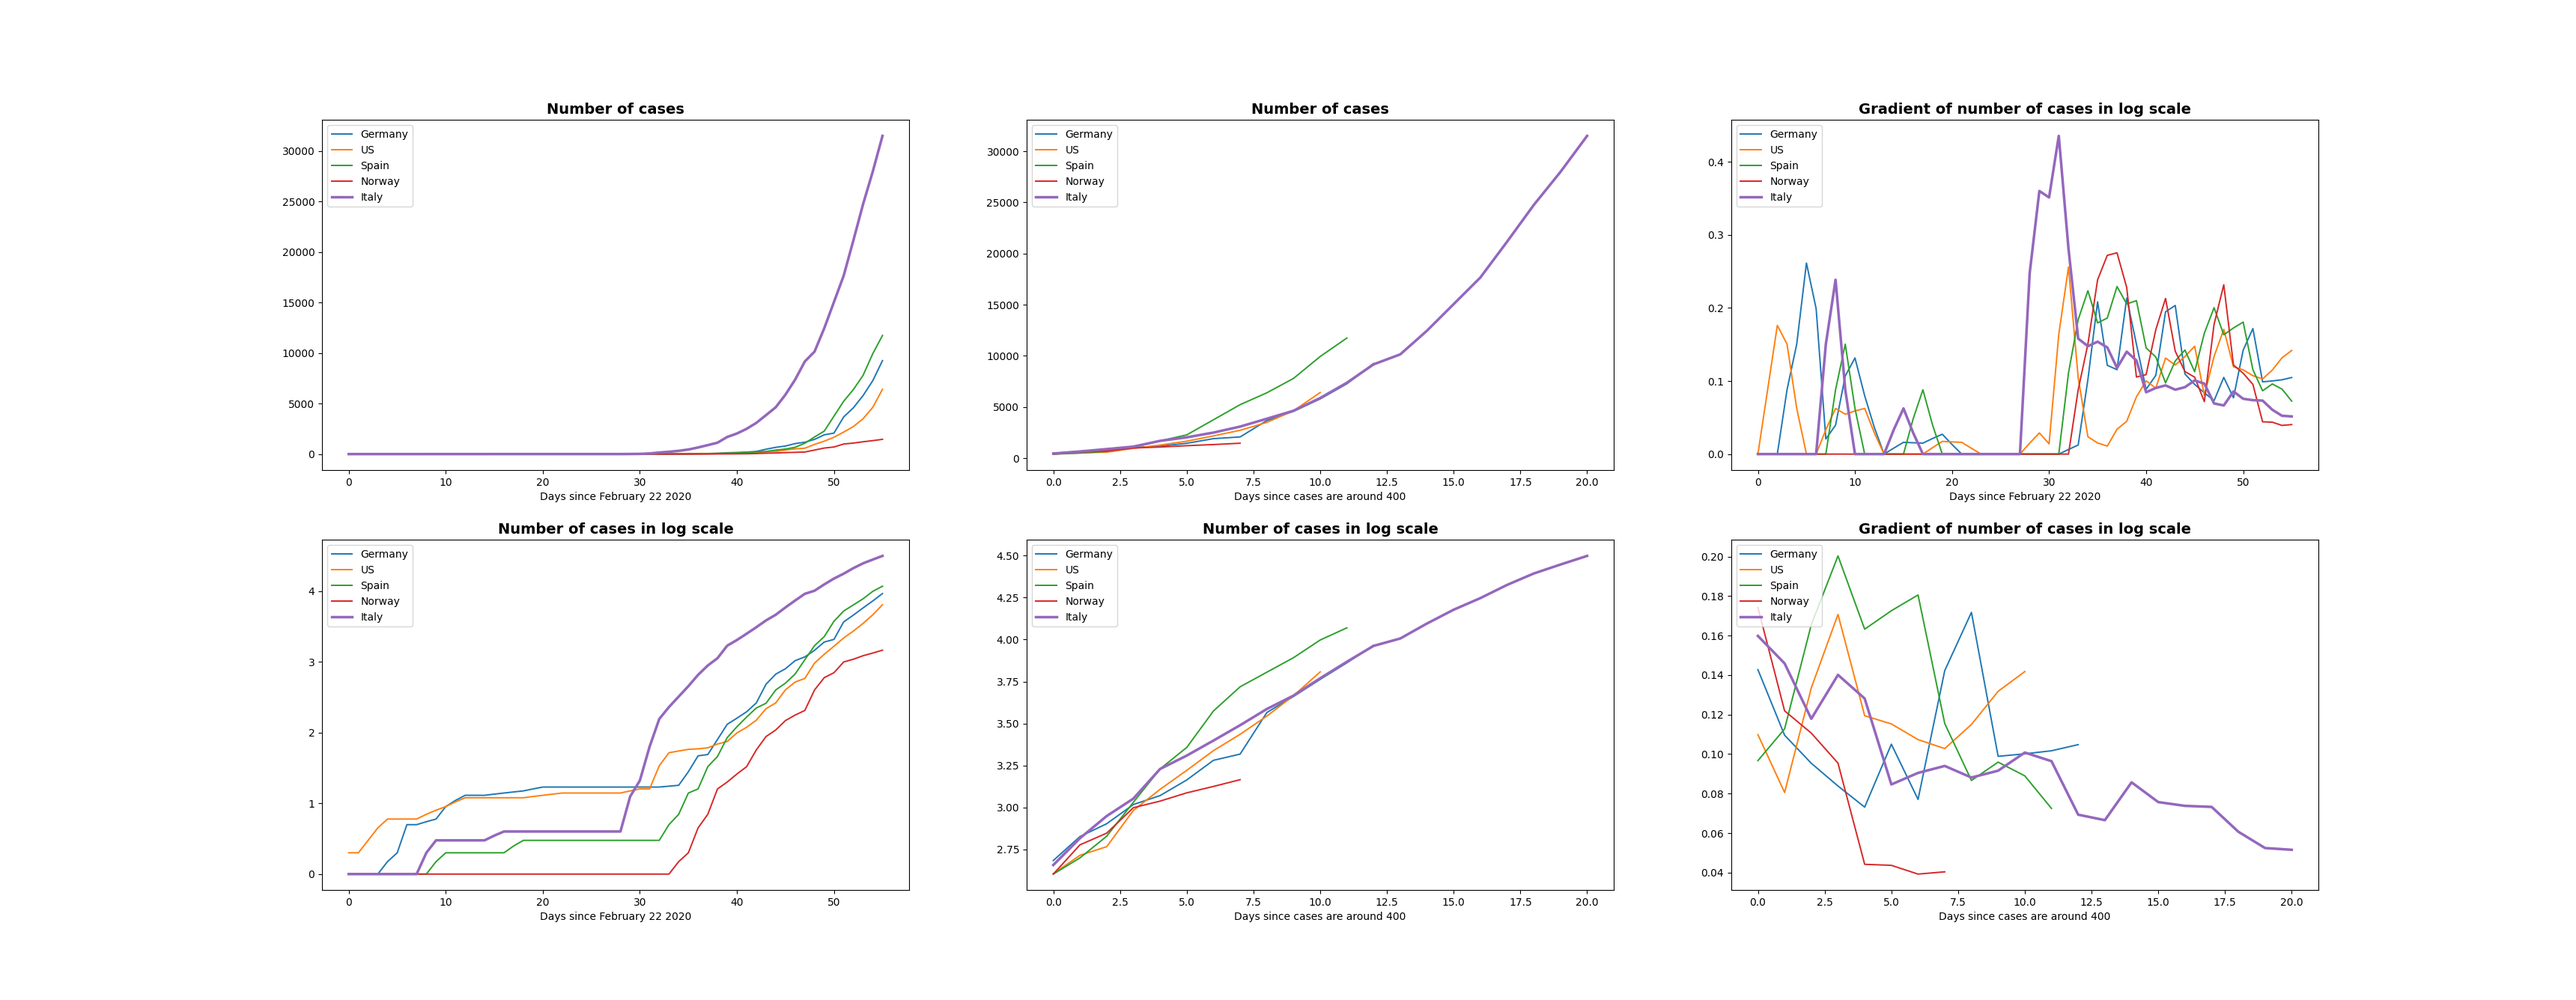
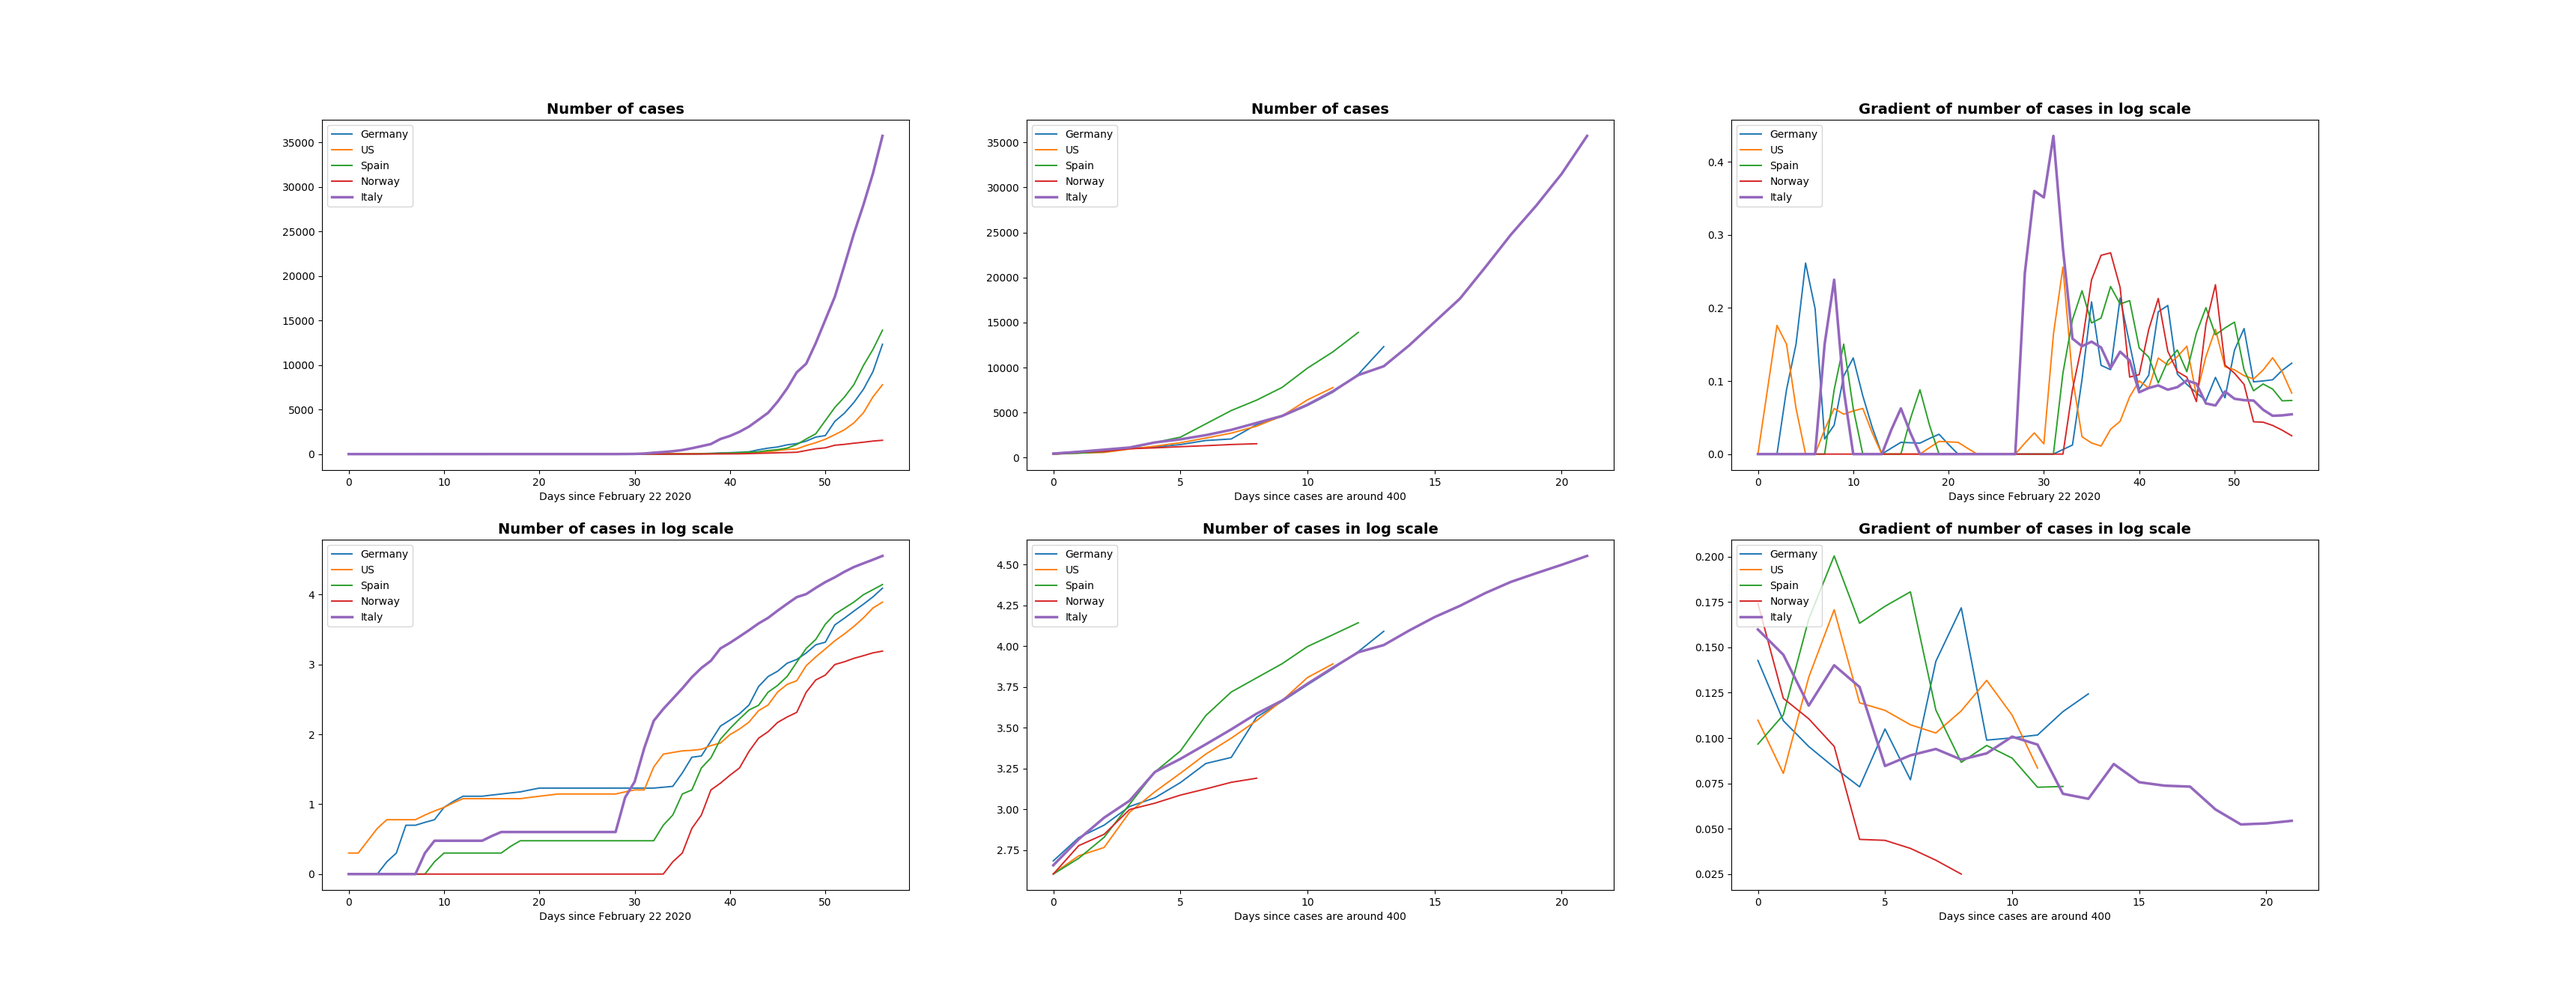
Added Italian Provinces

diff --git a/utils/plot.py b/utils/plot.py
@@ -1,7 +1,7 @@
 import matplotlib.pyplot as plt
 import numpy as np
 
-def plot_cases(confirmed, align_indexes):
+def plot_cases(confirmed, align_indexes, align_around):
     # Simple graph
     plt.subplot(2, 3, 1)
     for c, v in confirmed.items():
@@ -13,7 +13,7 @@ def plot_cases(confirmed, align_indexes):
 
     plt.legend(loc="upper left")
     plt.title("Number of cases", fontsize=14, fontweight='bold')
-    plt.xlabel("Days since February 22 2020")
+    plt.xlabel(f"Days since February 22 2020")
 
     # Simple aligned
     plt.subplot(2, 3, 2)
@@ -26,7 +26,7 @@ def plot_cases(confirmed, align_indexes):
         
     plt.legend(loc="upper left")
     plt.title("Number of cases", fontsize=14, fontweight='bold')
-    plt.xlabel("Days since cases are around 400")
+    plt.xlabel(f"Days since cases are around {align_around}")
 
     # Logarithm Gradient
     plt.subplot(2, 3, 3)
@@ -42,7 +42,7 @@ def plot_cases(confirmed, align_indexes):
 
     plt.legend(loc="upper left")
     plt.title("Gradient of number of cases in log scale", fontsize=14, fontweight='bold')
-    plt.xlabel("Days since February 22 2020")
+    plt.xlabel(f"Days since February 22 2020")
 
     # Logarithm
     plt.subplot(2, 3, 4)
@@ -56,7 +56,7 @@ def plot_cases(confirmed, align_indexes):
 
     plt.legend(loc="upper left")
     plt.title("Number of cases in log scale", fontsize=14, fontweight='bold')
-    plt.xlabel("Days since February 22 2020")
+    plt.xlabel(f"Days since February 22 2020")
 
     # Logarithm aligned
     plt.subplot(2, 3, 5)
@@ -70,7 +70,7 @@ def plot_cases(confirmed, align_indexes):
 
     plt.legend(loc="upper left")
     plt.title("Number of cases in log scale", fontsize=14, fontweight='bold')
-    plt.xlabel("Days since cases are around 400")
+    plt.xlabel(f"Days since cases are around {align_around}")
 
     # Logarithm aligned Gradient
     plt.subplot(2, 3, 6)
@@ -87,12 +87,12 @@ def plot_cases(confirmed, align_indexes):
 
     plt.legend(loc="upper left")
     plt.title("Gradient of number of cases in log scale", fontsize=14, fontweight='bold')
-    plt.xlabel("Days since cases are around 400")
+    plt.xlabel(f"Days since cases are around {align_around}")
 
     plt.show()
 
 
-def plot_growth(growths, align_indexes):
+def plot_growth(growths, align_indexes, align_around):
     growth_rate, growth_rate_moving_average, growth_rate_global_moving_average = growths
     # Raw Growth Rate
     plt.subplot(2, 3, 1)
@@ -105,7 +105,7 @@ def plot_growth(growths, align_indexes):
         
     plt.legend(loc="upper left")
     plt.title("Growth Rate Raw", fontsize=14, fontweight='bold')
-    plt.xlabel("Days since February 22 2020")
+    plt.xlabel(f"Days since February 22 2020")
 
     # Raw Growth Rate
     plt.subplot(2, 3, 2)
@@ -118,7 +118,7 @@ def plot_growth(growths, align_indexes):
         
     plt.legend(loc="upper left")
     plt.title("Growth Rate moving average 5 days", fontsize=14, fontweight='bold')
-    plt.xlabel("Days since February 22 2020")
+    plt.xlabel(f"Days since February 22 2020")
 
 
     plt.subplot(2, 3, 3)
@@ -131,7 +131,7 @@ def plot_growth(growths, align_indexes):
         
     plt.legend(loc="upper left")
     plt.title("Growth Rate global moving average", fontsize=14, fontweight='bold')
-    plt.xlabel("Days since February 22 2020")
+    plt.xlabel(f"Days since February 22 2020")
 
 
     plt.subplot(2, 3, 4)
@@ -144,7 +144,7 @@ def plot_growth(growths, align_indexes):
         
     plt.legend(loc="upper left")
     plt.title("Growth Rate Raw", fontsize=14, fontweight='bold')
-    plt.xlabel("Days since cases are around 400")
+    plt.xlabel(f"Days since cases are around {align_around}")
 
 
     plt.subplot(2, 3, 5)
@@ -157,7 +157,7 @@ def plot_growth(growths, align_indexes):
         
     plt.legend(loc="upper left")
     plt.title("Growth Rate moving average 5 days", fontsize=14, fontweight='bold')
-    plt.xlabel("Days since cases are around 400")
+    plt.xlabel(f"Days since cases are around {align_around}")
 
 
     plt.subplot(2, 3, 6)
@@ -170,6 +170,6 @@ def plot_growth(growths, align_indexes):
         
     plt.legend(loc="upper left")
     plt.title("Growth Rate global moving average", fontsize=14, fontweight='bold')
-    plt.xlabel("Days since cases are around 400")
+    plt.xlabel(f"Days since cases are around {align_around}")
 
     plt.show()

diff --git a/utils/italy_data.py b/utils/italy_data.py
@@ -1,0 +1,39 @@
+from collections import defaultdict
+import json
+import sys
+import requests
+
+data = requests.get("https://raw.githubusercontent.com/pcm-dpc/COVID-19/master/dati-json/dpc-covid19-ita-province.json").json()
+
+def parse_provinces() -> list:
+    provinces = list(set([element.get("sigla_provincia") for element in data]))
+
+    default_provinces = ["VA", "BG", "MI", "CO", "RO", "NA"]
+    all_provinces = list()
+
+    new_provinces = sys.argv[1:]
+    new_provinces = list(filter(lambda x: x in provinces, new_provinces))
+
+    all_provinces.extend(default_provinces)
+    all_provinces.extend(new_provinces)
+    return all_provinces
+
+def compute_provinces_confirmed_cases() -> dict:
+
+    # Get all data for each country
+    all_provinces = parse_provinces()
+    confirmed = defaultdict(list)
+    
+    for p in all_provinces:
+        local_data = [element.get("totale_casi") for element in data if element.get("sigla_provincia") == p]
+        # Clean when there are dates with no update and a "sudden" jump
+        new_local_data = list()
+
+        for idx, d in enumerate(local_data):
+            if idx > 1 and idx < len(local_data) and d - local_data[idx-1] == 0:
+                new_local_data.append((local_data[idx-1] + local_data[idx+1]) / 2)
+            else:
+                new_local_data.append(d)
+
+        confirmed[p] = new_local_data
+    return confirmed

diff --git a/run_italy.py b/run_italy.py
@@ -1,0 +1,26 @@
+import matplotlib.pyplot as plt
+import json
+from collections import defaultdict
+import numpy as np
+
+from utils.plot import plot_cases, plot_growth
+from utils.italy_data import compute_provinces_confirmed_cases
+from utils.growth_rate import compute_growth_rate
+
+ALIGN_AROUND = 20 # cases
+
+if __name__ == "__main__":    
+    # Compute the number of cases for each country
+    confirmed = compute_provinces_confirmed_cases()
+    # import pdb; pdb.set_trace()
+
+    # Compute the index for each country in order to align around the same number of cases
+    align_indexes = defaultdict(list)
+    for c, v in confirmed.items():
+        dist = np.abs(np.array(v) - ALIGN_AROUND)
+        align_indexes[c] = np.argmin(dist)
+
+    growths = compute_growth_rate(confirmed)
+
+    plot_cases(confirmed, align_indexes, ALIGN_AROUND)
+    plot_growth(growths, align_indexes, ALIGN_AROUND)

diff --git a/run_countries.py b/run_countries.py
@@ -4,7 +4,7 @@ from collections import defaultdict
 import numpy as np
 
 from utils.plot import plot_cases, plot_growth
-from utils.country_data import parse_countries, compute_countries_confirmed_cases
+from utils.country_data import compute_countries_confirmed_cases
 from utils.growth_rate import compute_growth_rate
 
 ALIGN_AROUND = 400 # cases
@@ -21,5 +21,5 @@ if __name__ == "__main__":
 
     growths = compute_growth_rate(confirmed)
 
-    plot_cases(confirmed, align_indexes)
-    plot_growth(growths, align_indexes)
+    plot_cases(confirmed, align_indexes, ALIGN_AROUND)
+    plot_growth(growths, align_indexes, ALIGN_AROUND)

diff --git a/README.md b/README.md
@@ -1,21 +1,31 @@
 # COVID-19 TRENDS
 
 ## Data
-Data is managed by [this resource](https://github.com/pomber/covid19)
+Data ordered per country is managed by [this resource](https://github.com/pomber/covid19)
+Data ordered per Italian Province is managed by [this resource](https://github.com/pcm-dpc/COVID-19) 
 
 ## What
-All available data is an historical of number of cases and deaths per country. <br>
+* Country: All available data is an historical of number of cases and deaths per country. <br>
+* Italian Provinces: The available data is more detailed. <br>
 In order to understand trends we look at the slope of the number of cases in log scale and the how the growth rate changes over time.
 
 ## How
-
-* It works with python >= 3.4
+* It works with python >= 3.5
 * ```pip install -r requirements.txt ```
-* By defaul the graphs will show the numbers for `Italy`, `US`, `Germany`, `Norway` and `Spain`. <br>
-You can include other countries, if available, by just adding the name after the script's name
-* ```python run.py Japan```
+* By defaul the graphs will show the numbers for 
+    * `Italy`, `US`, `Germany`, `Norway` and `Spain`. <br>
+    * `VA`, `BG`, `MI`, `CO`, `RO`, `NA` <br>
 
-## Results as of March 17th 2020
+You can include other countries or provinces, if available, by just adding the name after the script's name
+* ```python run_countries.py Japan```
+* ```python run_italy.py VE```
 
+## Results as of March 18th 2020
+
+### COUNTRIES
 ![Cases](https://github.com/dariocazzani/COVID-19-trends/blob/master/images/image1.png)
 ![Growth Rate](https://github.com/dariocazzani/COVID-19-trends/blob/master/images/image2.png)
+
+### PROVINCES
+![Cases](https://github.com/dariocazzani/COVID-19-trends/blob/master/images/image3.png)
+![Growth Rate](https://github.com/dariocazzani/COVID-19-trends/blob/master/images/image4.png)
